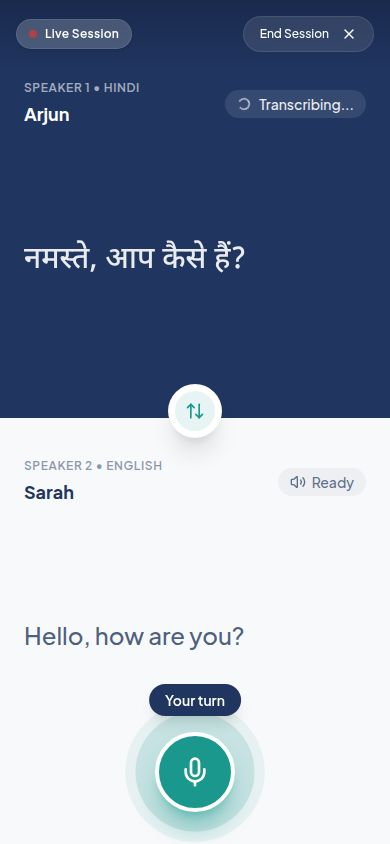
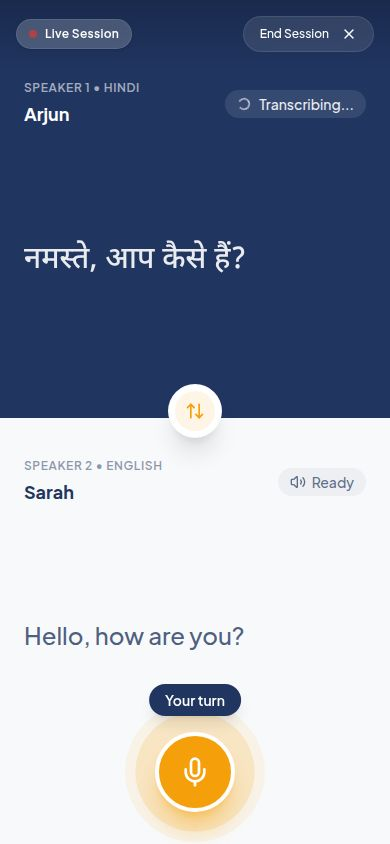
Update color scheme to use golden amber instead of teal
Replaces all teal color variables with a golden amber hue in the CSS, and updates associated screenshot assets.

Replit-Commit-Author: Agent
Replit-Commit-Session-Id: 88fffa76-2184-4ddf-9e81-d9773382e4a4
Replit-Commit-Checkpoint-Type: full_checkpoint
Replit-Commit-Event-Id: 154d6f3b-1632-4b99-b193-ec69107a1644
Replit-Commit-Screenshot-Url: https://storage.googleapis.com/screenshot-production-us-central1/1201c571-c9f2-4e45-8bcf-f648e5787b31/88fffa76-2184-4ddf-9e81-d9773382e4a4/wG2YtXD
Replit-Helium-Checkpoint-Created: true

Changed region(s): [[0.3385, 0.8318, 0.6769, 1.0], [0.4615, 0.4621, 0.5538, 0.5237]]

diff --git a/artifacts/mockup-sandbox/src/index.css b/artifacts/mockup-sandbox/src/index.css
@@ -58,8 +58,8 @@
   --popover: 0 0% 100%;
   --popover-foreground: 220 50% 15%;
   
-  /* Rich Teal */
-  --primary: 175 70% 35%;
+  /* Golden Amber */
+  --primary: 38 92% 50%;
   --primary-foreground: 0 0% 100%;
   
   /* Deep Navy */
@@ -78,9 +78,9 @@
   
   --border: 210 20% 85%;
   --input: 210 20% 85%;
-  --ring: 175 70% 35%;
+  --ring: 38 92% 50%;
   
-  --chart-1: 175 70% 35%;
+  --chart-1: 38 92% 50%;
   --chart-2: 220 50% 25%;
   --chart-3: 35 90% 55%;
   --chart-4: 0 75% 55%;
@@ -88,12 +88,12 @@
   
   --sidebar: 0 0% 100%;
   --sidebar-foreground: 220 50% 15%;
-  --sidebar-primary: 175 70% 35%;
+  --sidebar-primary: 38 92% 50%;
   --sidebar-primary-foreground: 0 0% 100%;
   --sidebar-accent: 210 20% 90%;
   --sidebar-accent-foreground: 220 50% 15%;
   --sidebar-border: 210 20% 85%;
-  --sidebar-ring: 175 70% 35%;
+  --sidebar-ring: 38 92% 50%;
 
   --font-sans: 'Plus Jakarta Sans', 'Inter', sans-serif;
   --font-serif: 'Playfair Display', Georgia, serif;
